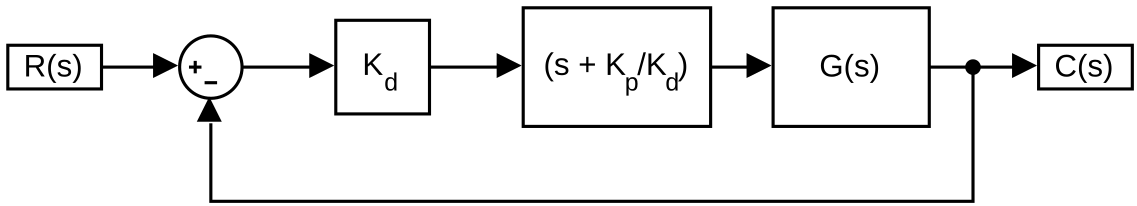
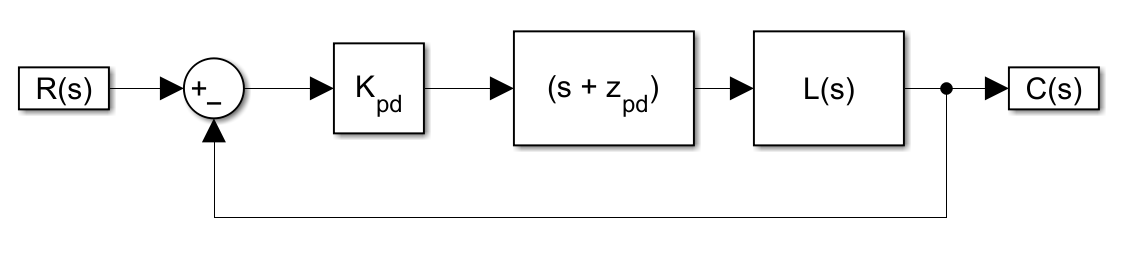
pd control

Changed region(s): [[0.0, 0.0291, 1.0, 0.9903]]

diff --git a/hw7_rlocus_design/hw7_rlocus_design.tex b/hw7_rlocus_design/hw7_rlocus_design.tex
@@ -68,9 +68,18 @@ Consider the proportional-only, unity feedback design as shown in Figure~\ref{f:
 \label{f:p}
 \end{figure}
 
-
 \subsection{Proportional-Derivative Design}
-Consider the PD control design shown in Figure~\ref{f:pd} where $K_p$ is the proportional gain and $K_d$ is the derivative gain.  The design goal is to achieve the following closed-loop step response metrics:
+An ideal PD controller can be equivalently represented in the following forms:
+\[
+\begin{array}{rcll}
+D(s) & = & K_p + K_d s & \text{(Standard form)} \\
+  & = & K_d \left(s + {K_p}/{K_d}\right) & \text{(Factored form)} \\
+  & = & K_{pd} (s + z_{pd}) & \text{(Root locus PD form)}
+\end{array}
+\]
+where $K_p$ is the proportional gain and $K_d$ is the derivative gain in the standard form; $K_{pd}$ is the root locus gain and $z_{pd}$ is the location of the PD zero in the root locus form.  The PD controller is used to improve the transient response of the system.  The PD controller adds a zero to the system, which can be used to change the system dynamics.  The PD controller does not change the steady-state error of the system, but it can improve the transient response by increasing the damping ratio and reducing the overshoot.
+
+Consider the PD control design shown in Figure~\ref{f:pd}. The design goal is to achieve the following closed-loop step response metrics:
 \begin{itemize}
 \item $T_s \approx \unit[0.9]{s}$
 \item $\zeta \approx 0.707$
